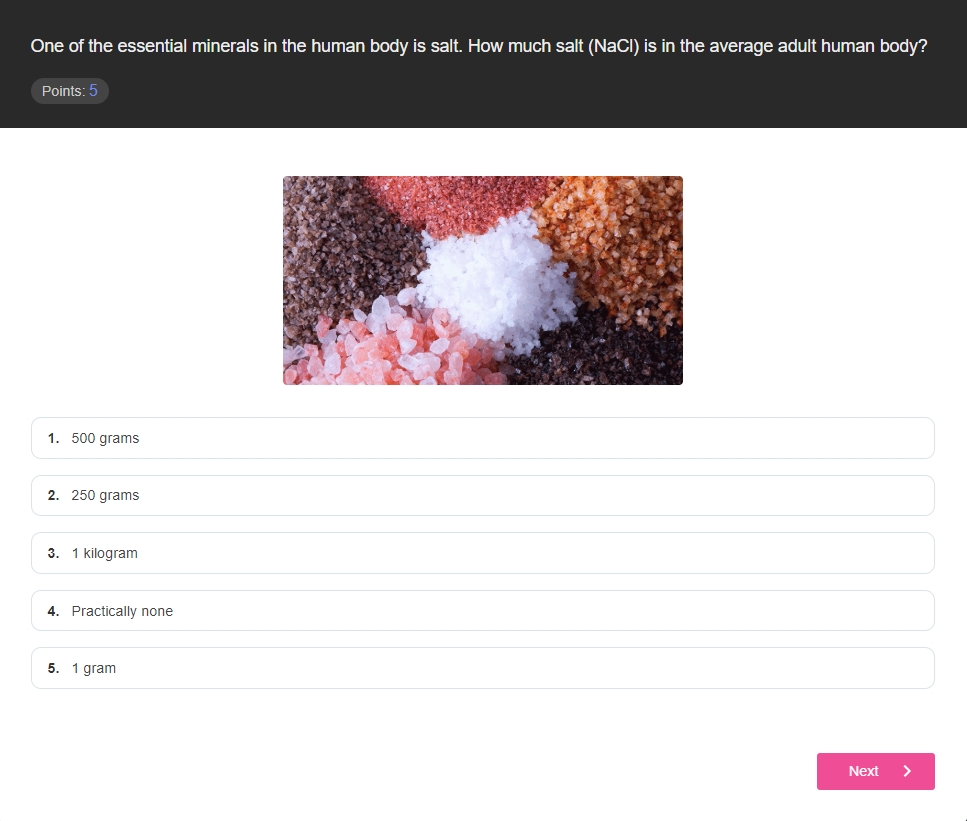
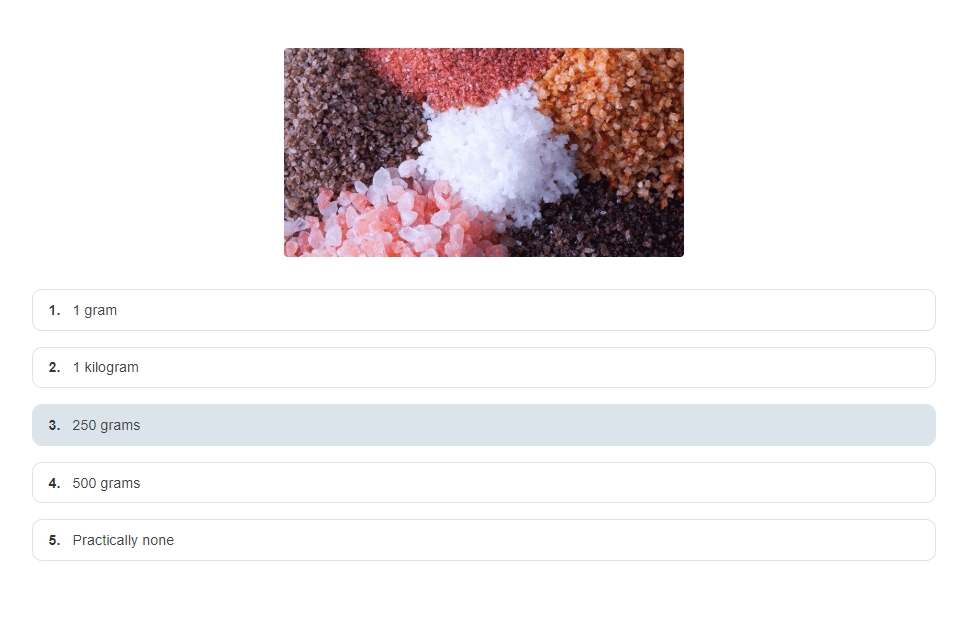
Replace thumbnail.jpg

diff --git a/src/app/test-components/test-results/test-results.component.css b/src/app/test-components/test-results/test-results.component.css
@@ -50,7 +50,7 @@
 .row-group {
   display: flex;
   align-items: center;
-  border-radius: 6px;
+  width: 100%;
 }
 
 .row-group:not(:last-of-type) {
@@ -58,11 +58,12 @@
 }
 
 .row-group span {
+  flex-shrink: 0;
   display: block;
-  width: 16%;
 }
 
 .row-group span:first-of-type {
+  width: 130px;
   color: #888;
   font-size: 1rem;
 }
@@ -101,8 +102,8 @@
   width: 280px;
   height: 200px;
   margin-bottom: 2rem;
-  border-radius: 2px;
-  background: url('/assets/img/thumbnail.jpg') center center/110% no-repeat;
+  border-radius: 4px;
+  background: url('/assets/img/thumbnail.jpg') center center/115% no-repeat;
   box-shadow: 0 0 20px rgba(13, 16, 25, 0.1);
   cursor: pointer;
   transition: filter 0.4s ease;

diff --git a/src/styles.css b/src/styles.css
@@ -263,7 +263,6 @@ body {
   left: 0;
   width: 100%;
   height: 100%;
-  padding-bottom: 3rem;
   background-color: #222021;
   overflow-y: auto;
 }
